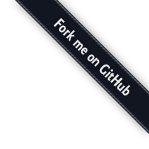
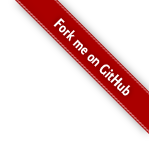
Change graphical charter...cuz I can :grin:

Changed region(s): [[0.1074, 0.0, 1.0, 0.9128]]

diff --git a/styles/main.css b/styles/main.css
@@ -7,12 +7,12 @@
 }
 
 a, a:visited {
-    color: #045FB4;
+    color: #b4052c;
     text-decoration: none;
 }
 
 a:hover {
-    color: #b4052c;
+    color: #045FB4;
     text-decoration: none;
 }
 
@@ -36,10 +36,9 @@ hr {
 
 .header {
     text-align: center;
-    border-top: solid 2px #FFF;
-    border-bottom: solid 6px #5fc9e5;
+    border-bottom: solid 6px #dd1b16;
     position: relative;
-    padding-bottom: 13px;
+    background: #333;
 }
 
 .header::before,
@@ -54,22 +53,17 @@ hr {
     width: 33.33%;
     position: absolute;
     left: 33.33%;
-    background: #b1cf37;
+    background: #b3b3b3;
 }
 
 .header::after {
     left: 66.66%;
-    background: #f48123;
+    background: #8089d6;
 }
 
-.header h1 {
-    color: #045FB4;
-    font-family: 'Gilda Display', serif;
-    font-size: 2em;
+.header .container h1 {
     margin: 0;
-    font-weight: bold;
-    line-height: 38px;
-    position: relative;
+    text-shadow: -1px 1px #8f8f8f;
 }
 
 .header p {
@@ -80,6 +74,14 @@ hr {
     position: absolute;
     right: 4em;
     top: 0;
+}
+
+.header a {
+    color: #EFEFEF;
+}
+
+.header a:hover {
+    color: #fff;
 }
 
 /* ---------------------------------------- */
@@ -105,10 +107,10 @@ hr {
 code {
     padding: 2px 4px;
     font-size: 90%;
-    color: #254CC7;
     white-space: nowrap;
-    background-color: #F2F7F9;
     border-radius: 4px;
+    background-color: #F9F1F1;
+    color: #b4052c;
 }
 
 code, kbd, pre, samp {
@@ -165,6 +167,8 @@ pre code {
 
 .nav-tabs>li>a:hover {
     border-bottom-color: #c2c2c2;
+    background-color: #F9F1F1;
+    color: #b4052c;
 }
 
 .nav-tabs>li.active>a,
@@ -298,7 +302,7 @@ pre code {
 .sidebar .nav-list>li>a:hover,
 .sidebar .nav-list>li.active>a {
     background-color: #FFF;
-    color: #438eb9;
+    color: #D3433E;
 }
 
 .sidebar .nav-list>li.active>a:before,
@@ -312,7 +316,7 @@ pre code {
     width: 3px;
     max-width: 3px;
     overflow: hidden;
-    background-color: #5fc9e5;
+    background-color: #dd1b16;
 }
 
 .sidebar .nav-list>li:hover:before {
@@ -371,12 +375,15 @@ pre code {
     position: relative;
     padding: 7px 0 9px 40px;
     margin: 0;
+    color: #585858;
 }
 
 .sidebar-item.nav-list>li .submenu>li>a:hover,
+.sidebar-item.nav-list>li .submenu>li>a:focus,
 .sidebar-item.nav-list>li .submenu>li.active>a {
-    color: #4b88b7;
-    background-color: #f1f5f9;
+    color: #D3433E;
+    background-color: #F9F1F1;
+    text-decoration: none;
 }
 
 .sidebar-item.nav-list>li .submenu>li>a:hover>i.fa,

diff --git a/index.html b/index.html
@@ -40,9 +40,6 @@
                 </span>
             </h1>
         </div>
-        <p>
-            Datables using angular directives
-        </p>
 	</header>
 
 	<div class="main-container">
